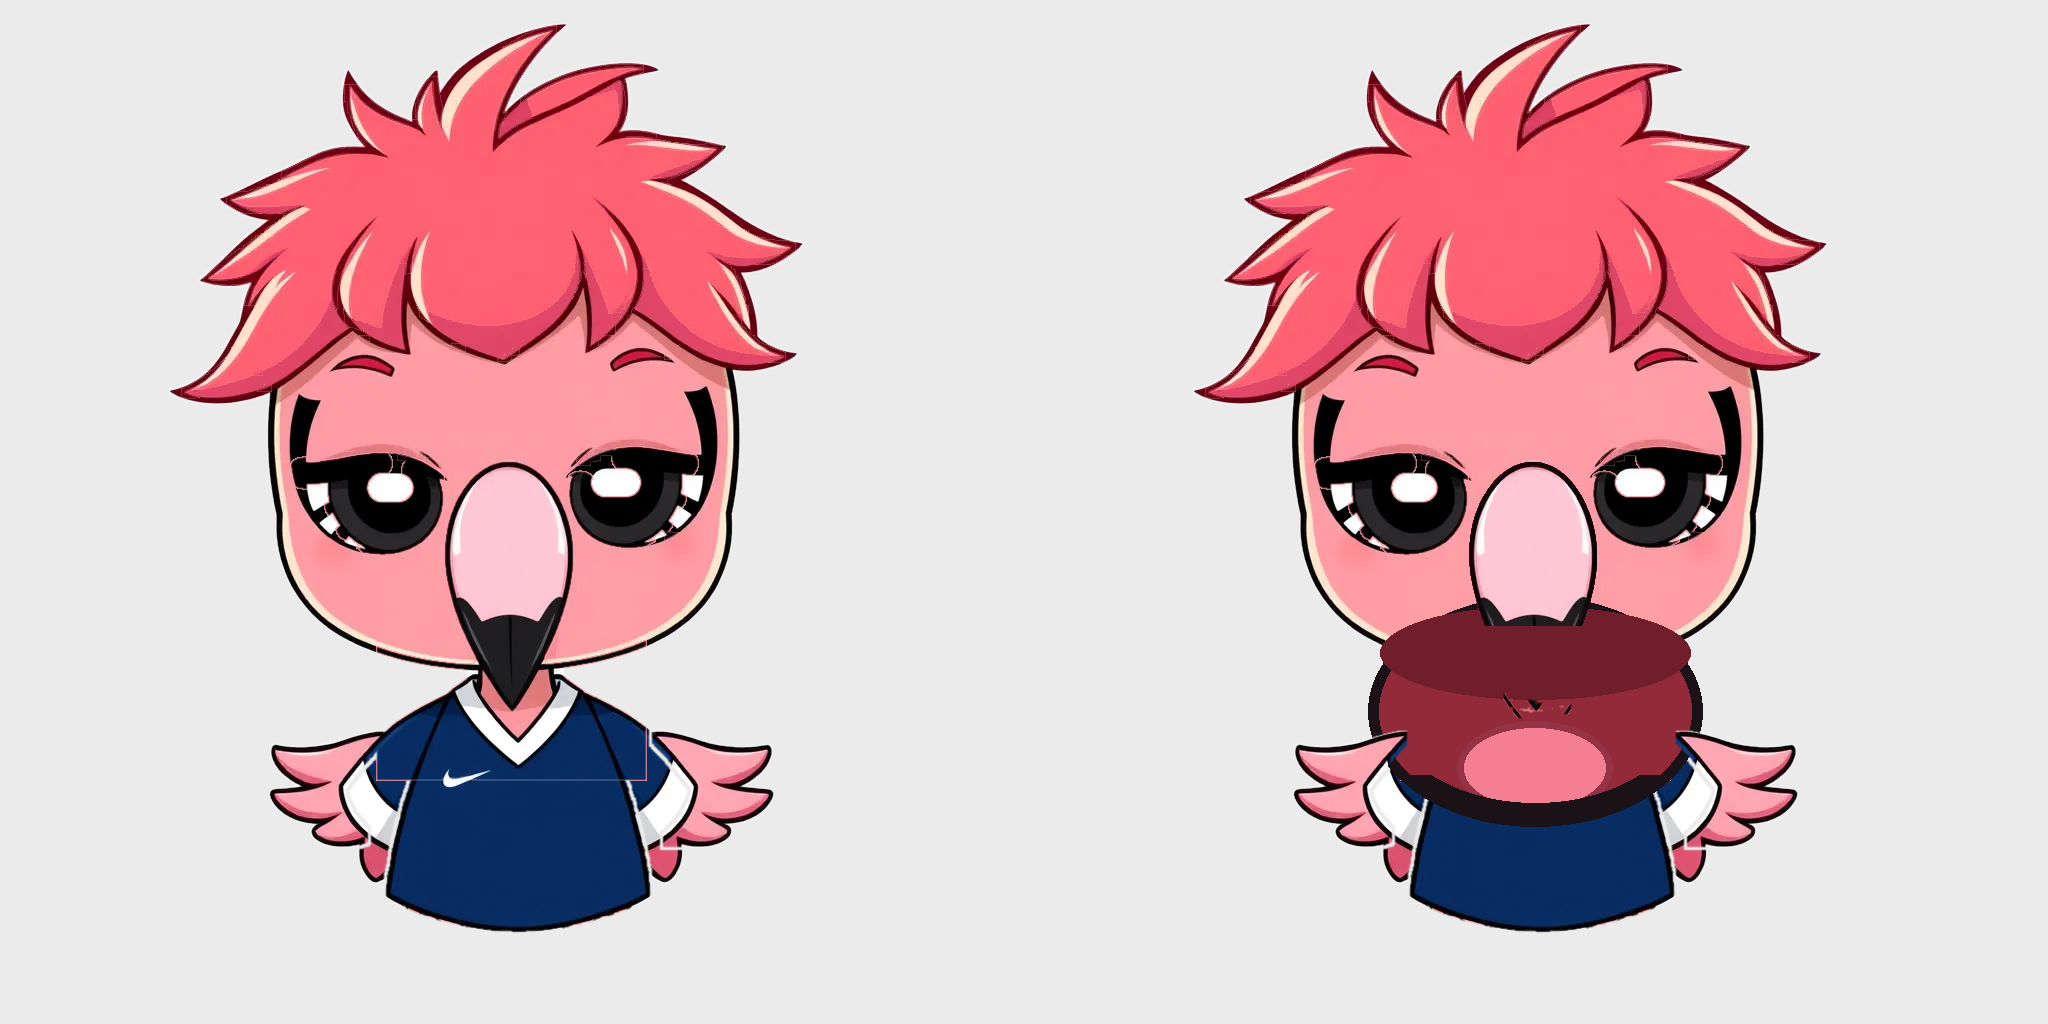
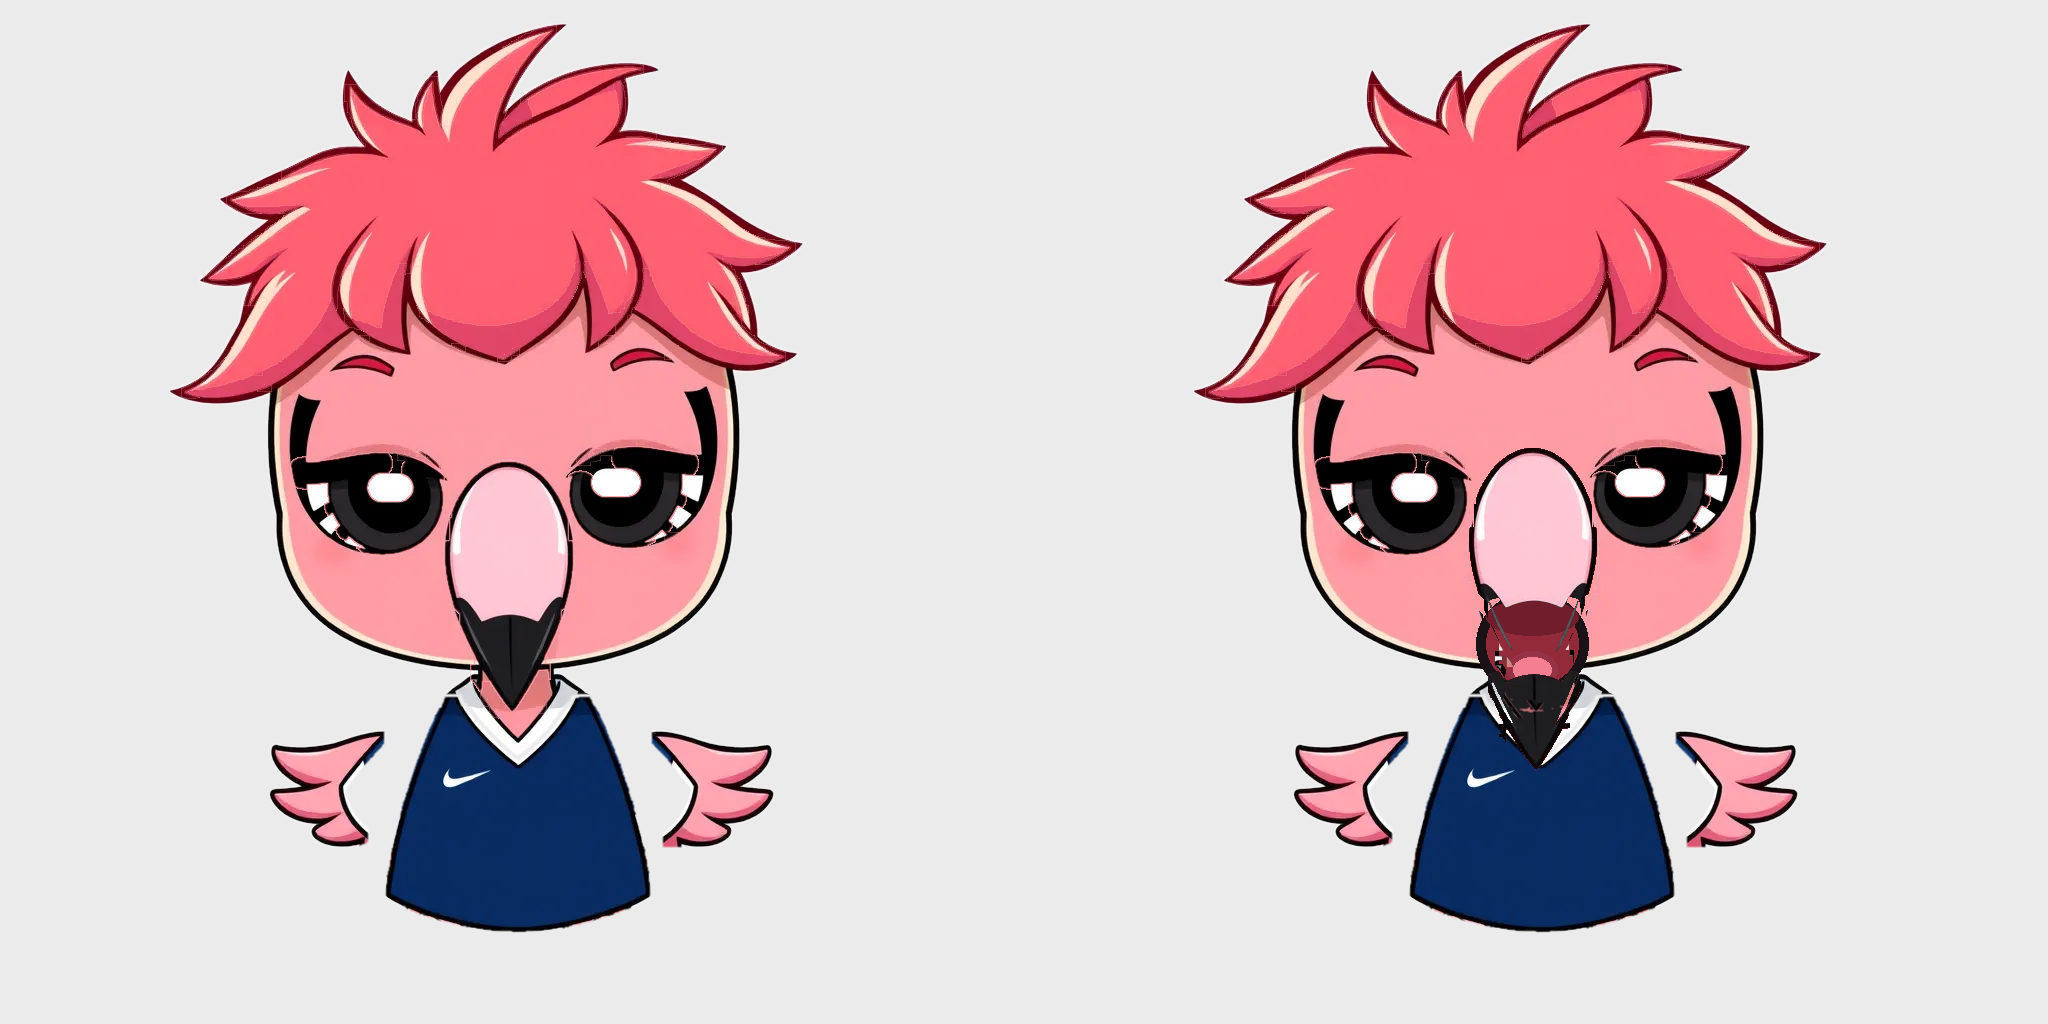
벌린 입을 부리 분할 방식으로 교체 (사람 입 오벌 폐기)
- 윗부리(연분홍 몸통) 위로 14px, 아랫부리(검은 끝) 아래로 24%bh 이동,
  사이에 부리 폭 44%의 작은 렌즈형 틈 + 혀
- 부리 끝 검출 견고화: 연분홍 몸통 먼저 -> 바로 아래 두꺼운 검정만
  (침식으로 얇은 칼라 외곽선 배제, b<60으로 네이비 유니폼 배제, 한계박스)
- Anime2.5DRig 실기 검증 완료

diff --git a/flamingo2/assemble_gen.py b/flamingo2/assemble_gen.py
@@ -71,26 +71,45 @@ def build():
     for e in eyes:
         eye_mask |= e
 
-    # --- 부리(mouth_close): 검은 끝 + 위의 연분홍 몸통 + 테두리 ---
-    tipzone = dark & ~eye_mask
-    tipzone[:int(H * 0.5), :] = False
-    tipzone[int(H * 0.75):, :] = False
-    tipzone[:, :int(W * 0.38)] = False
-    tipzone[:, int(W * 0.62):] = False
-    n, lab, stats, cent = comp_masks(tipzone)
-    i = 1 + np.argmax(stats[1:, cv2.CC_STAT_AREA])
-    tip = lab == i
+    # --- 부리(mouth_close): 연분홍 몸통 먼저 -> 바로 아래 "두꺼운" 검정만 끝으로 ---
     n, lab, stats, cent = comp_masks(beak_pale)
-    tys, txs = np.where(tip)
-    seed = (int(txs.mean()), int(tys.min()) - 25)
-    bid = lab[seed[1], seed[0]]
-    if bid == 0:  # 시드가 외곽선에 걸리면 주변 최대 성분
-        near = lab[max(0, seed[1] - 40):seed[1] + 40, max(0, seed[0] - 40):seed[0] + 40]
-        vals, cnts = np.unique(near[near > 0], return_counts=True)
-        bid = vals[np.argmax(cnts)]
-    body = lab == bid
+    body = None
+    for i in np.argsort(stats[1:, cv2.CC_STAT_AREA])[::-1] + 1:
+        if stats[i, cv2.CC_STAT_AREA] < 3000:
+            break
+        cx_, cy_ = cent[i]
+        if W * 0.40 < cx_ < W * 0.60 and H * 0.40 < cy_ < H * 0.64:
+            body = lab == i
+            break
+    if body is None:
+        raise RuntimeError("beak body not found")
+    pys, pxs = np.where(body)
+    pb_x0, pb_x1, pb_y1 = pxs.min(), pxs.max(), pys.max()
+
+    dark_bk = dark & (b < 60)   # 진짜 검정만 (네이비 유니폼 제외)
+
+    # 부리 영역 한계 박스 (칼라로 새지 않게)
+    limit = np.zeros((H, W), bool)
+    limit[max(0, pys.min() - 30):min(H, pb_y1 + 190),
+          max(0, pb_x0 - 35):min(W, pb_x1 + 35)] = True
+
+    # 두꺼운 검정 코어(얇은 칼라 외곽선은 침식으로 소멸)
+    dark_core = cv2.erode(dark_bk.astype(np.uint8),
+                          cv2.getStructuringElement(cv2.MORPH_ELLIPSE, (13, 13))) > 0
+    strip = np.zeros((H, W), bool)
+    strip[pb_y1 - 15:min(H, pb_y1 + 150), max(0, pb_x0 - 15):min(W, pb_x1 + 15)] = True
+    n2, lab2, st2, _ = comp_masks(dark_core & strip & ~eye_mask)
+    tip_core = np.zeros((H, W), bool)
+    for i in range(1, n2):
+        if st2[i, cv2.CC_STAT_AREA] > 300:
+            tip_core |= lab2 == i
+    tip = (cv2.dilate(tip_core.astype(np.uint8),
+                      cv2.getStructuringElement(cv2.MORPH_ELLIPSE, (19, 19))) > 0) \
+        & dark_bk & limit & ~eye_mask
+
     core = body | tip
-    ring = (cv2.dilate(core.astype(np.uint8), np.ones((25, 25), np.uint8)) > 0) & dark & ~eye_mask
+    ring = (cv2.dilate(core.astype(np.uint8), np.ones((21, 21), np.uint8)) > 0) \
+        & dark_bk & limit & ~eye_mask
     beak = fill_holes(cv2.morphologyEx((core | ring).astype(np.uint8), cv2.MORPH_CLOSE,
                                        np.ones((9, 9), np.uint8)) > 0)
 
@@ -134,40 +153,42 @@ def build():
     covered = cv2.dilate((eye_mask | beak).astype(np.uint8), np.ones((3, 3), np.uint8)) > 0
     face_rgb = np.where((covered | fill_zone)[:, :, None], FACE_PINK, face_rgb)
 
-    # --- mouth_open 합성 (아트 팔레트로) ---
+    # --- mouth_open 합성: 같은 부리가 "살짝 벌어진" 모양 ---
+    # 윗부리(연분홍 몸통)는 위로, 아랫부리(검은 끝)는 아래로, 사이에 작은 틈만.
     bys, bxs = np.where(beak)
     bx0, bx1, by0, by1 = bxs.min(), bxs.max(), bys.min(), bys.max()
     bw_, bh_ = bx1 - bx0, by1 - by0
     cx = (bx0 + bx1) / 2
-    mo = Image.new("RGBA", (W, H), (0, 0, 0, 0))
-    d = ImageDraw.Draw(mo)
-    upper_cut = by0 + int(bh_ * 0.52)
-    cav_y0 = upper_cut - 30
-    cav_y1 = by1 + int(bh_ * 0.15)
-    exp = int(bw_ * 0.125)
-    d.ellipse([bx0 - exp, cav_y0, bx1 + exp, cav_y1], fill=MOUTH, outline=INK, width=11)
-    d.ellipse([bx0 - exp + 12, cav_y0 + 10, bx1 + exp - 12, cav_y0 + int((cav_y1 - cav_y0) * 0.45)],
-              fill=MOUTH_DK)
-    tw = int(bw_ * 0.58)
-    d.ellipse([cx - tw / 2, cav_y1 - int((cav_y1 - cav_y0) * 0.46), cx + tw / 2, cav_y1 - 12],
-              fill=TONGUE, outline=(150, 50, 70), width=7)
-    # 아래 검은 턱 (초승달)
-    jaw = Image.new("L", (W, H), 0)
-    dj = ImageDraw.Draw(jaw)
-    dj.ellipse([bx0 - exp, cav_y0, bx1 + exp, cav_y1], fill=255)
-    dj.ellipse([bx0 - exp + 8, cav_y0 - 22, bx1 + exp - 8, cav_y1 - 24], fill=0)
-    jaw_np = (np.array(jaw) > 0)
-    jaw_np[:cav_y0 + int((cav_y1 - cav_y0) * 0.78), :] = False
-    mo_np = np.array(mo)
-    mo_np[jaw_np] = (*INK, 255)
-    # 윗부리 조각: 원본 부리 픽셀의 위쪽 52%
-    up_mask = beak.copy()
-    up_mask[upper_cut:, :] = False
-    up = np.zeros((H, W, 4), np.uint8)
-    up[:, :, :3] = img
-    up[:, :, 3] = np.where(up_mask, 255, 0)
-    mo_final = Image.fromarray(mo_np)
-    mo_final.alpha_composite(Image.fromarray(up))
+
+    tip_full = tip | ((cv2.dilate(tip.astype(np.uint8), np.ones((13, 13), np.uint8)) > 0)
+                      & dark_bk & beak)
+    upper_full = beak & ~tip_full
+    ty0 = np.where(tip_full)[0].min()
+    UP_SHIFT, DOWN_SHIFT = 14, int(bh_ * 0.24)
+
+    def shifted(mask, dy):
+        out = np.zeros((H, W, 4), np.uint8)
+        out[:, :, :3] = img
+        out[:, :, 3] = np.where(mask, 255, 0)
+        M = np.float32([[1, 0, 0], [0, 1, dy]])
+        return cv2.warpAffine(out, M, (W, H), flags=cv2.INTER_LINEAR,
+                              borderMode=cv2.BORDER_CONSTANT, borderValue=(0, 0, 0, 0))
+
+    upper_img = shifted(upper_full, -UP_SHIFT)
+    lower_img = shifted(tip_full, DOWN_SHIFT)
+
+    # 틈: 부리 폭보다 좁은 작은 둥근 렌즈 (부리 실루엣에서 크게 안 벗어남)
+    mo_final = Image.new("RGBA", (W, H), (0, 0, 0, 0))
+    d = ImageDraw.Draw(mo_final)
+    gw = bw_ * 0.44
+    gy0, gy1 = ty0 - UP_SHIFT - 6, ty0 + DOWN_SHIFT + 26
+    d.ellipse([cx - gw, gy0, cx + gw, gy1], fill=MOUTH, outline=INK, width=10)
+    d.ellipse([cx - gw + 10, gy0 + 8, cx + gw - 10, gy0 + (gy1 - gy0) * 0.42], fill=MOUTH_DK)
+    tw = gw * 0.9
+    d.ellipse([cx - tw / 2, gy1 - (gy1 - gy0) * 0.42, cx + tw / 2, gy1 - 8],
+              fill=TONGUE, outline=(150, 50, 70), width=6)
+    mo_final.alpha_composite(Image.fromarray(lower_img))
+    mo_final.alpha_composite(Image.fromarray(upper_img))
 
     # --- 레이어 구성 ---
     def to_rgba(mask, src=img):
